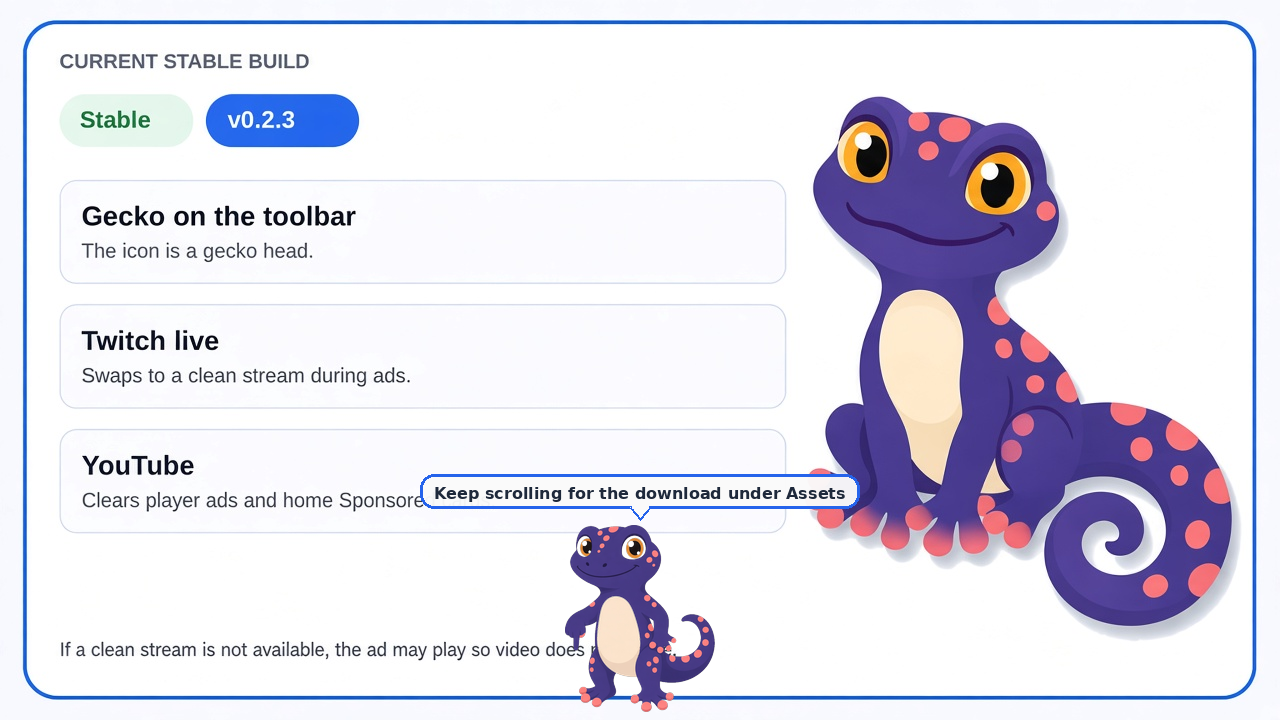
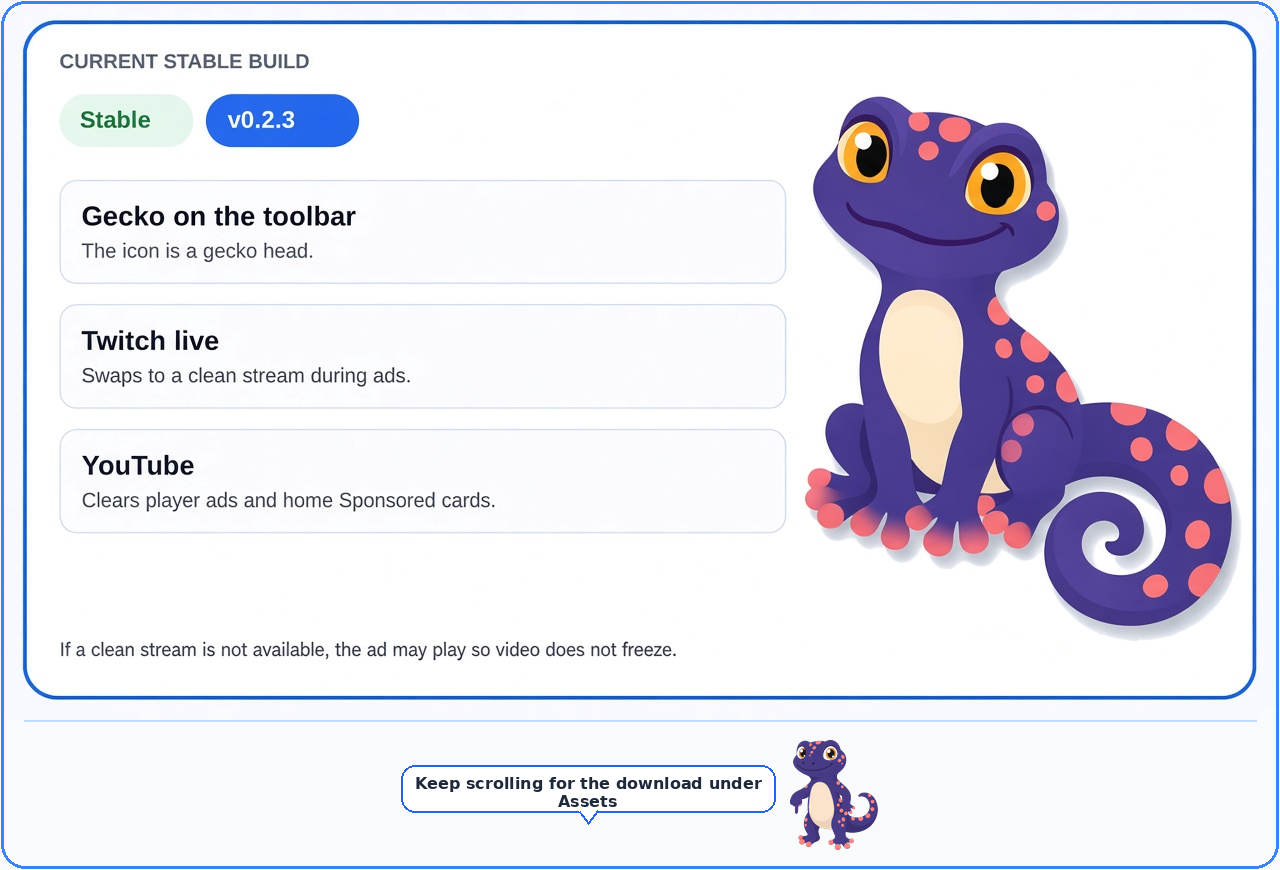
Keep the guide gecko clear of all card text and art.
Give each picture a footer strip for the bubble and small gecko so nothing overlaps, and point the README and release at docs/cards2/ so the tag page refreshes.

Changed region(s): [[0.0, 0.0, 1.0, 1.0]]

diff --git a/README.md b/README.md
@@ -6,7 +6,7 @@
 - Works with several live tabs open.
 - Free. No account. Nothing leaves your computer.
 
-<img src="docs/cards/what-it-is.png" width="800" alt="Watch the live stream. Ads stay off your screen. The stream keeps playing, several live tabs can stay open, and nothing leaves your computer.">
+<img src="docs/cards2/what-it-is.png" width="800" alt="Watch the live stream. Ads stay off your screen. The stream keeps playing, several live tabs can stay open, and nothing leaves your computer.">
 
 A free Chrome extension for Twitch live streams and YouTube. It runs only in your browser and does not send data anywhere.
 
@@ -20,16 +20,16 @@ A free Chrome extension for Twitch live streams and YouTube. It runs only in you
 
 It only runs inside Chrome on Twitch and YouTube.
 
-<img src="docs/cards/safe/02-only-sites.png" width="800" alt="Only Twitch and YouTube. Does not run other webpages or programs on your PC.">
+<img src="docs/cards2/safe/02-only-sites.png" width="800" alt="Only Twitch and YouTube. Does not run other webpages or programs on your PC.">
 
-<img src="docs/cards/safe/03-no-data.png" width="800" alt="No data collection. No account. Nothing is collected or sent off your computer.">
+<img src="docs/cards2/safe/03-no-data.png" width="800" alt="No data collection. No account. Nothing is collected or sent off your computer.">
 
 - **Only Twitch and YouTube** — does not open or run other webpages, and does not install programs on your PC.
 - **No data collection** — no account, nothing collected, nothing sent off your computer.
 
 ## Current build
 
-<img src="docs/cards/whats-new.png" width="800" alt="Current stable build v0.2.3. Gecko toolbar icon. Twitch live swaps to a clean stream during ads. YouTube clears player ads and home Sponsored cards.">
+<img src="docs/cards2/whats-new.png" width="800" alt="Current stable build v0.2.3. Gecko toolbar icon. Twitch live swaps to a clean stream during ads. YouTube clears player ads and home Sponsored cards.">
 
 The toolbar icon is a gecko head. Twitch and YouTube work as described above.
 
@@ -43,13 +43,13 @@ You do **not** need a GitHub account. You are only downloading a zip and loading
 
 ### 1. Open the release page
 
-<img src="docs/cards/install/01-open-github.png" width="800" alt="Step 1: Open the GitHub release page.">
+<img src="docs/cards2/install/01-open-github.png" width="800" alt="Step 1: Open the GitHub release page.">
 
 Or skip ahead and use the download button in step 2.
 
 ### 2. Download the zip
 
-<img src="docs/cards/install/02-download-zip.png" width="800" alt="Step 2: Download the zip. A second gecko points down toward the download link below.">
+<img src="docs/cards2/install/02-download-zip.png" width="800" alt="Step 2: Download the zip. A second gecko points down toward the download link below.">
 
 ↓ The download is right under this picture:
 
@@ -59,7 +59,7 @@ On the release page, the file is also listed under **Assets**.
 
 ### 3. Unzip the folder
 
-<img src="docs/cards/install/03-unzip.png" width="800" alt="Step 3: Unzip the download and keep the folder.">
+<img src="docs/cards2/install/03-unzip.png" width="800" alt="Step 3: Unzip the download and keep the folder.">
 
 - Windows: right-click the zip → **Extract All…**
 - Mac: double-click the zip
@@ -68,14 +68,14 @@ Keep the folder that appears. Do not delete it after install — Chrome reads th
 
 ### 4. Open Chrome Extensions
 
-<img src="docs/cards/install/04-extensions.png" width="800" alt="Step 4: Open chrome://extensions and turn on Developer mode.">
+<img src="docs/cards2/install/04-extensions.png" width="800" alt="Step 4: Open chrome://extensions and turn on Developer mode.">
 
 1. Open a new tab and go to `chrome://extensions`
 2. Turn on **Developer mode** (top right)
 
 ### 5. Load unpacked
 
-<img src="docs/cards/install/05-load-unpacked.png" width="800" alt="Step 5: Click Load unpacked and pick the folder with manifest.json.">
+<img src="docs/cards2/install/05-load-unpacked.png" width="800" alt="Step 5: Click Load unpacked and pick the folder with manifest.json.">
 
 1. Click **Load unpacked**
 2. Choose the unzipped folder (the one that contains `manifest.json`)
@@ -85,7 +85,7 @@ Turn off other Twitch or YouTube ad blockers while this is loaded. Two ad blocke
 
 ### 6. Debug (optional)
 
-<img src="docs/cards/install/06-debug.png" width="800" alt="Step 6: Debug starts off. Turn it on only if you need a log.">
+<img src="docs/cards2/install/06-debug.png" width="800" alt="Step 6: Debug starts off. Turn it on only if you need a log.">
 
 Debug starts **OFF**. Leave it off for normal watching.
 
